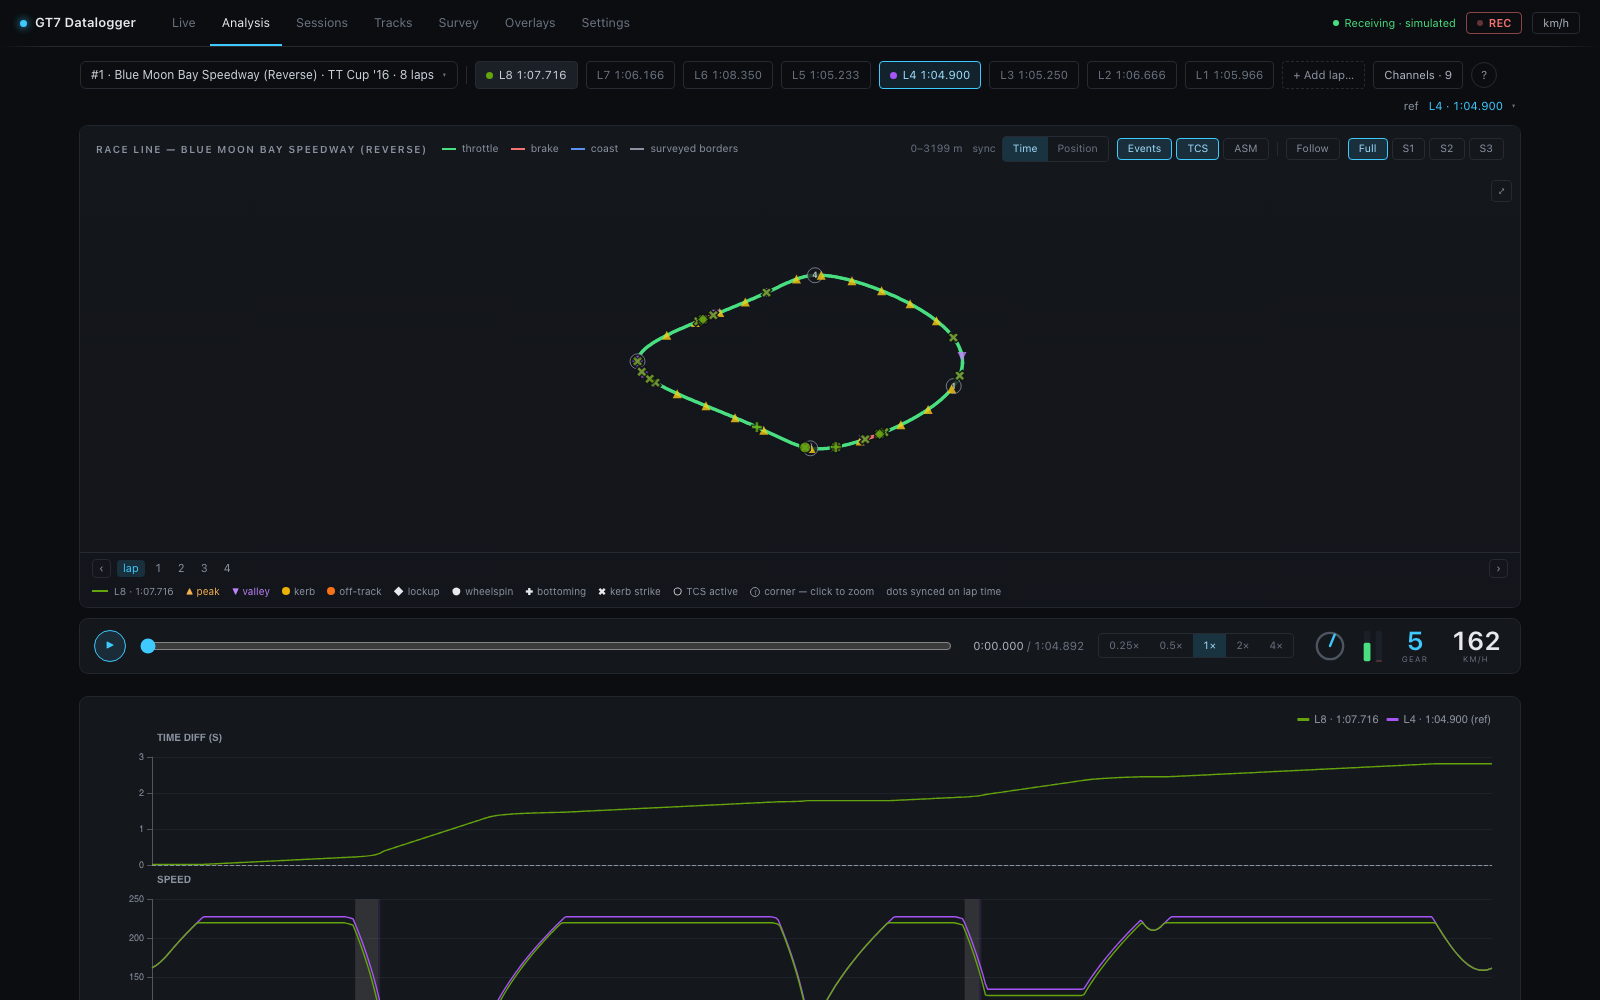
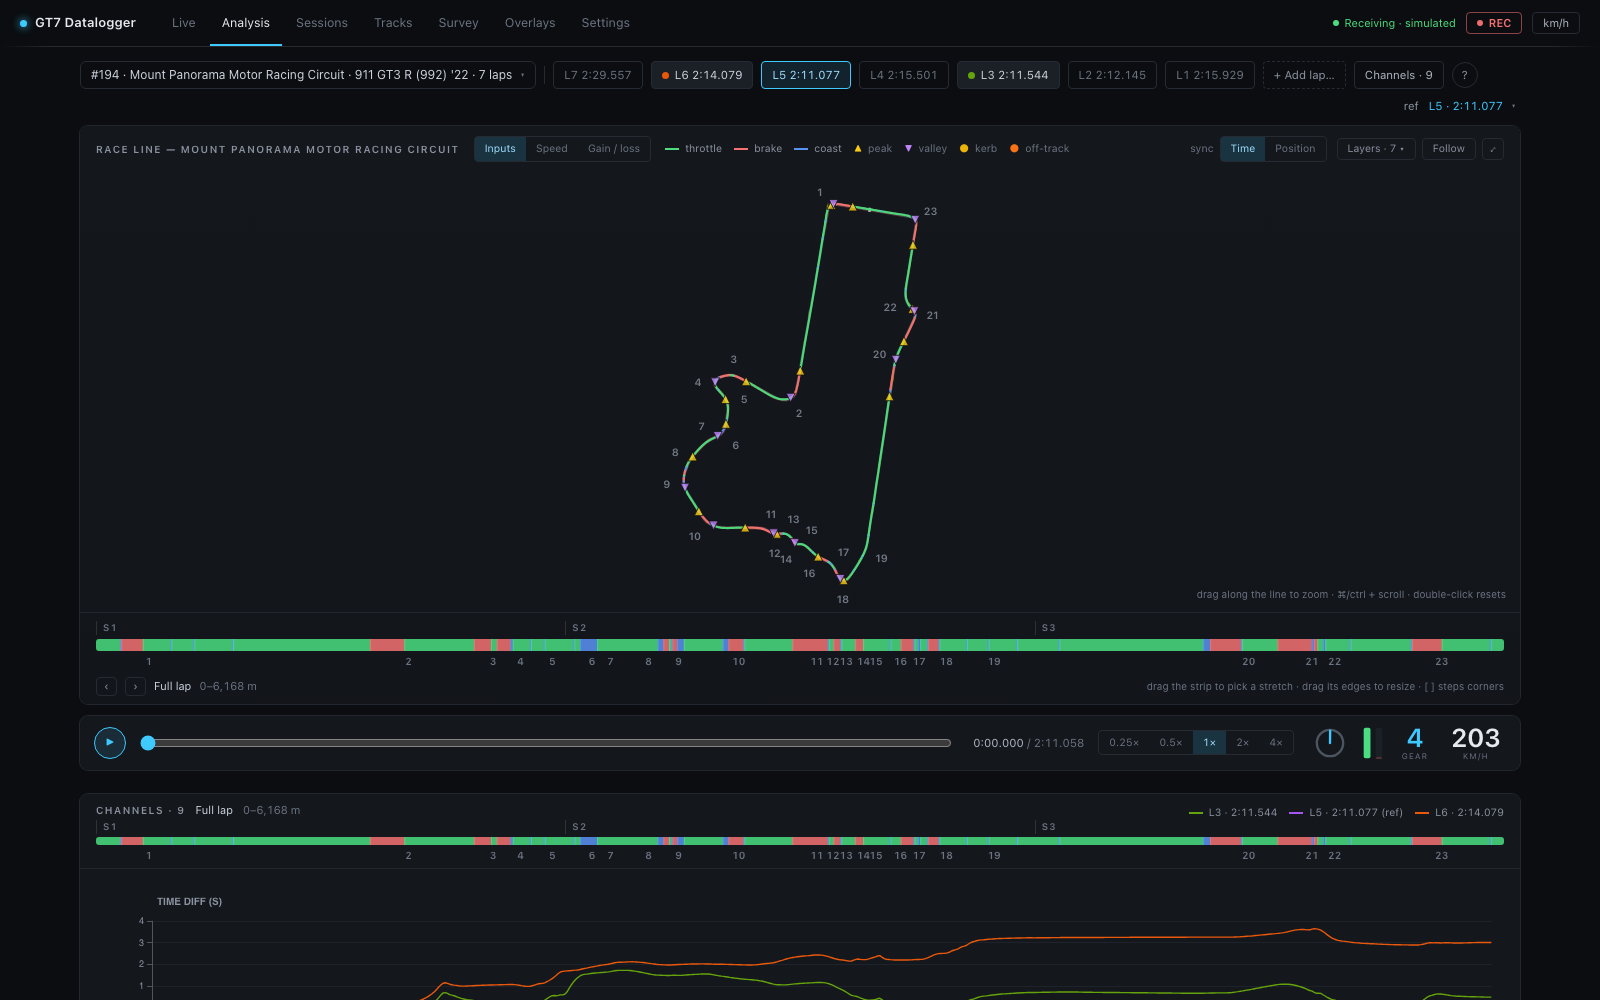
Docs and README: screenshots and feature lists for the Analysis rework
The Analysis screenshot still showed the view as it was before #137 and
#138: a dotted throttle/brake/coast line, a row of Events/TCS/ASM toggles
and S1–S3 buttons in the map header, no lap strip, no sector times. It is
re-shot on a recorded session at Mount Panorama (session 194, 911 GT3 R,
seven laps, 23 authored corners), because the simulated circuit has no
authored corners and no surveyed road, so it cannot show what the rework
added. Four more images go with it: the map zoomed to T2 under the
Gain / loss lens, with the locator inset, the apex badge, the brake-point
pins and the callout; and panel crops of the corner report card, the
stint trend and the sector times, placed under their sections of the
Analysis guide. The other six screenshots are from #131 and the views
they show have not changed since.

The README's feature list was several releases behind the app. It gains
the lens-coloured map and the Layers menu, corner zoom, the lap strip,
sector times, the corner report card's braking and balance columns, the
stint trend, lap playback, the traction circle and the post-lap notes;
Sessions gains Export analysis and the rules for which laps count (race
opening laps, pit out-laps, hand rulings) and which events keep a session
whole; and Tracks has a section of its own — auto-identification moved
there from Sessions, with the Needs-you list, survey mode, the corner and
sector editor and the shared repo. Three figures were wrong: the channel
[…]

diff --git a/README.md b/README.md
@@ -14,9 +14,10 @@ web dashboard for live driving, lap comparison, and session management.
 Maintained by [u/Rfc6878](https://www.reddit.com/user/Rfc6878/) on Reddit.
 
 Full feature parity with [snipem/gt7dashboard](https://github.com/snipem/gt7dashboard) —
-plus additional features like the analysis channel picker, Corner Detail widget, chassis
-event detection, track auto-identification, the overlay builder, and webhook
-notifications — rebuilt with a cleaner architecture and a modern UI.
+plus additional features like the lens-coloured race line map, sector times, the corner
+report card with braking points, chassis event detection, track auto-identification, the
+overlay builder, a voice race engineer, and webhook notifications — rebuilt with a cleaner
+architecture and a modern UI.
 
 **📖 Full documentation: [jbhoorasingh.github.io/gt7-datalogger](https://jbhoorasingh.github.io/gt7-datalogger/)** —
 per-feature guides, how every calculation works, and the API reference.
@@ -41,11 +42,13 @@ per-feature guides, how every calculation works, and the API reference.
 ### Analysis
 
 - **Multi-lap overlay comparison** against a selectable reference lap: time diff over
-  distance plus a **channel picker** — choose from ~20 telemetry channels grouped into
-  Driving, Tires & wheels, Chassis, and Engine (speed, throttle, brake, coasting, gear,
-  RPM, boost, yaw rate, per-wheel slip, per-corner tire temps, front/rear averages, the
-  tire-temp **F−R balance** curve, suspension travel, ride height, …). The panel set
-  persists and is encoded in the URL, so a shared link reproduces the exact view.
+  distance plus a **channel picker** — choose from 31 telemetry channels grouped into
+  Driving, Race, Engine, Tires & wheels, and Chassis (speed, throttle, brake, coasting,
+  gear, RPM, boost, steering, yaw rate, lateral / longitudinal / vertical g, body slip,
+  TCS cut and ABS release, race position, per-wheel slip, per-corner tire temps,
+  front/rear averages, the tire-temp **F−R balance** curve, suspension travel, ride
+  height, …). The panel set persists and is encoded in the URL, so a shared link
+  reproduces the exact view.
 - **Synced cursors** — hover one chart and the same distance point is highlighted
   everywhere: every panel, the race line map, and the Corner Detail widget.
 - **Corner Detail widget** — a top-down car with four corner cells that replays the
@@ -56,8 +59,34 @@ per-feature guides, how every calculation works, and the API reference.
   are detected at lap save, shaded onto the charts (on the panel that caused them), counted
   per lap in the Sessions table (`2L·1S·4B`), and summarized in the tuning panel. TCS/ASM
   activation shades the throttle/speed panels.
-- **Race line map** with throttle/brake/coast zones and speed peaks (▲) / valleys (▼),
-  drag-select **section zoom** synchronized across all charts and the map.
+- **Race line map with lenses** — the reference lap drawn as one line coloured by
+  **Inputs** (throttle / brake / coast), **Speed** bands, or **Gain / loss** against the
+  compared lap, over the surveyed road where the circuit has one. A **Layers** menu
+  switches everything else the map draws: corner numbers, the other laps with their apex
+  speeds and brake points, and markers for speed peaks (▲) / valleys (▼), kerbs, chassis
+  events, and TCS / ASM activity. **Zoom** to a corner by clicking its number (or `[` /
+  `]`), drag along the line, or ⌘/Ctrl + wheel; zoomed in, a locator inset, apex badges
+  with every lap's minimum speed, and a callout say what the compared lap did there.
+  Every chart follows the same window.
+- **Lap strip** — the lap unrolled under the map, coloured like the line, with the
+  track's sectors as **S1…Sn** buttons and the corner numbers at their apex; drag,
+  resize, or slide the zoom window on it. A compact copy stays pinned over the charts.
+- **Sector times** — every lap of the session split at the circuit's sectors (placed on
+  the Tracks page, or thirds of the lap when none are), best sector and best lap in
+  purple.
+- **Corner report card** — entry / minimum / exit speed and time lost or gained per
+  corner against the reference, with **braking columns** (brake Δ m, peak %, zone length)
+  and body-slip **balance**. Hover a row to pin both brake points on the map, click it to
+  zoom there; sort in track order or biggest loss first.
+- **Stint trend** — lap time and tyre temperatures lap over lap, split into stints at
+  pit stops, with each stint's drift as a figure (`+0.18 s/lap`).
+- **Lap playback** — play / pause, a scrub bar, and 0.25×–4× speed drive the synced
+  cursor: the dot runs round the race line and a strip of dashboard widgets replays the
+  driver's hands.
+- **Traction circle (g-g)** — lateral against longitudinal g, coloured by input zone,
+  with the other laps as faint dots.
+- **Race engineer post-lap notes** — the coaching findings as text, per lap, replayed
+  from the stored session whether or not voice was ever on.
 - **Gearing panel** — per-lap gear ratios with estimated speed at redline, tune top speed,
   and redline RPM.
 - Speed-deviation consistency chart across your best laps, relative fuel-map strategy
@@ -82,22 +111,42 @@ per-feature guides, how every calculation works, and the API reference.
   reference; tick laps to exclude, export or delete them in bulk.
 - Export/import laps as JSON, **CSV / MoTeC-compatible export** for MoTeC i2 or Excel,
   a whole session as a ZIP, delete laps or whole sessions, manual "log lap now", and a
-  record on/off toggle.
-- **Track auto-identification** — 78 GT7 configurations are recognised out of the box,
-  from signatures shipped with the app, so a fresh install tags sessions on the first
-  lap without you naming anything. Naming a circuit yourself always outranks a shipped
-  name, surveyed circuits identify themselves from their borders, and a lap driven the
-  wrong way round a layout is tagged as its reverse rather than as the layout itself.
+  record on/off toggle. **Export analysis** compiles a session into one labelled JSON
+  document — every lap measured per corner against the session's best (braking zone,
+  minimum speed, time lost, line against the reference) with no raw samples.
+- **Laps that count** — a race's opening lap is excluded from bests and consistency as
+  *race start*, a pit out-lap as partial, and any lap can be ruled in or out by hand with
+  a reason. Menus, pauses and pit stops never split or merge a session, and the session
+  being recorded can be deleted once recording is paused.
 - **Personal-bests board** — a **Bests** sub-tab in Sessions with each circuit's fastest counting lap
   per car across every session: time, gap to the circuit's outright best, class chip
   and filter, and one click into Analysis. Sessions can be excluded from bests —
   replays record other drivers' laps, and telemetry can't tell them from yours.
 
+### Tracks
+
+- **Track auto-identification** — 78 GT7 configurations are recognised out of the box,
+  from signatures shipped with the app, so a fresh install tags sessions on the first
+  lap without you naming anything. Naming a circuit yourself always outranks a shipped
+  name, surveyed circuits identify themselves from their borders, and a lap driven the
+  wrong way round a layout is tagged as its reverse rather than as the layout itself.
+- **Tracks view** — every circuit the app knows and what it has: a name, a survey, an
+  official layout, labelled corners, sectors. A **Needs you** list and a per-circuit
+  readiness checklist say what is missing and offer the fix.
+- **Survey mode** — drive the borders to capture the road; the compiled road is drawn
+  under the race line in Analysis, with unsurveyed stretches called out as gaps.
+- **Corner & sector editor** — name and number the corners, and place sector boundaries
+  by clicking the map or from a lap's split times as a race screen showed them. Both
+  travel with the circuit's bundle through export, import and sync.
+- **Shared track repo** — a fresh installation pulls every shared circuit on its first
+  start; **Import ▾ → Pull from shared** re-pulls on demand, applying the repo's
+  corrections, and the sync client pushes your own surveys back.
+
 ### Overlays & streaming
 
-- **Drag-and-drop overlay builder** (its own **Overlays** tab) with a live canvas: place 15 widgets
-  (gear, speed, RPM, inputs, lap times, big delta, race position, tires, fuel, fuel
-  strategy, in-game clock, engine temps, driver aids, boost, race alerts) freely on a
+- **Drag-and-drop overlay builder** (its own **Overlays** tab) with a live canvas: place 16 widgets
+  (gear, speed, RPM, inputs, steering wheel, lap times, big delta, race position, tires,
+  fuel, fuel strategy, in-game clock, engine temps, driver aids, boost, race alerts) freely on a
   snapping grid, size each from 1×1 to 4×4 cells, and pick a **visual style per widget**
   — digits, bar, arc gauge, or shift-light LED strip for the same metric.
 - **Server-saved named layouts** with short stable URLs (`/overlay?layout=race-strip`):
@@ -115,10 +164,12 @@ per-feature guides, how every calculation works, and the API reference.
 
 - **Robust capture** — Salsa20 decryption, heartbeat keep-alive, console auto-discovery via
   UDP broadcast, automatic reconnect, and a visible connection status indicator.
-- **Rich per-lap recording** — 60 Hz sample series for ~28 channels including per-wheel
-  slip, per-corner tire temps, suspension travel, and a driver-aids bitmask, plus per-lap
-  aggregates (aid usage %, engine health, gearing metadata).
-- **Sessions auto-split** on car change or race restart, so data never mixes.
+- **Rich per-lap recording** — 60 Hz sample series for 38 columns including per-wheel
+  slip, per-corner tire temps, suspension travel, elevation, surface, steering, g-forces,
+  body slip, and a driver-aids bitmask, plus per-lap aggregates (aid usage %, engine
+  health, gearing metadata).
+- **Sessions auto-split** on car change or race restart, so data never mixes — while
+  menus, pauses and pit stops keep the session going.
 - **Replay capture** — GT7 streams replays exactly like driving, so race replays record
   their laps, and a single-lap leaderboard replay (which ends *at* the line, before a
   lap would normally commit) is salvaged whenever GT7's own reported lap time matches
@@ -470,10 +521,15 @@ newer channels are simply absent and the charts skip them.
 
 ![Live view](docs/screenshots/live.png)
 
-**Analysis view** — channel picker, synced cursors, event bands, race line map,
-Corner Detail widget, and the gearing panel:
+**Analysis view** — the lens-coloured race line map with its Layers menu, the lap
+strip with sectors and corner numbers, lap playback, and the channel stack beneath:
 
 ![Analysis view](docs/screenshots/analysis.png)
+
+**Zoomed to a corner** — the Gain / loss lens, the locator inset, apex badges with each
+lap's minimum speed, brake-point pins, and the callout for the compared lap:
+
+![Analysis view zoomed to a corner](docs/screenshots/analysis-corner.png)
 
 **Sessions view** — the session list, stat strip, lap-time chart and per-lap metrics
 with event counts (`2L·1S·4B` = lockups · wheelspins · bottoming):
@@ -499,4 +555,4 @@ what is surveyed, what is named, and what the official layout is:
 
 ![Tracks view](docs/screenshots/tracks.png)
 
-*Screenshots were captured against the built-in simulated telemetry source on a scratch database, with the circuits pulled from the shared track repo.*
+*Screenshots were captured against the built-in simulated telemetry source on a scratch database, with the circuits pulled from the shared track repo; the Analysis screenshots show recorded laps at Mount Panorama.*

diff --git a/docs/index.md b/docs/index.md
@@ -12,9 +12,9 @@ GT7 streams encrypted telemetry over UDP at 60 Hz while you drive. GT7 Datalogge
 
 1. **Captures** that stream — Salsa20 decryption, heartbeat keep-alive, auto-discovery,
    automatic reconnect.
-2. **Records** every lap — ~28 channels at 60 Hz including per-wheel slip, per-corner
-   tire temps, and suspension travel, plus per-lap aggregates and detected chassis
-   events (lockups, wheelspin, bottoming, kerb strikes).
+2. **Records** every lap — 38 columns at 60 Hz including per-wheel slip, per-corner
+   tire temps, suspension travel, g-forces and body slip, plus per-lap aggregates and
+   detected chassis events (lockups, wheelspin, bottoming, kerb strikes).
 3. **Serves** a web dashboard — live race readouts, multi-lap analysis with synced
    cursors and a race line map, session history, and a fully customizable OBS/phone
    overlay builder.
@@ -44,8 +44,10 @@ Settings**, plus two full-screen pages for a second screen: `/dash` and `/engine
   and a clickable rail of this session's laps.
 
 - **[Analysis view](guide/analysis-view.md)** — overlay multiple laps against a
-  reference: ~20 telemetry channels, time-diff over distance, synced cursors, race line
-  map, corner detail widget, detected events, and a gearing panel.
+  reference: 31 telemetry channels, time-diff over distance, synced cursors, a
+  lens-coloured race line map that zooms to a corner, a lap strip with sectors, sector
+  times, a corner report card with braking points, stint trend, lap playback, and
+  detected events.
 
 - **[Sessions view](guide/sessions-view.md)** — browse history session by session:
   stats, a lap-time chart and per-lap metrics; export laps as JSON or CSV/MoTeC,
@@ -64,6 +66,11 @@ Settings**, plus two full-screen pages for a second screen: `/dash` and `/engine
 </div>
 
 ## Screenshots
+
+**Analysis view zoomed to a corner** — the Gain / loss lens, the locator inset, apex
+badges with each lap's minimum speed, brake-point pins, and the callout:
+
+![Analysis view zoomed to a corner](screenshots/analysis-corner.png)
 
 **Live view** — race readouts, driver-aid pills, strategy, and the clickable laps rail:
 
@@ -86,7 +93,7 @@ with event counts (`2L·1S·4B` = lockups · wheelspins · bottoming):
 
 ![Tracks view](screenshots/tracks.png)
 
-*Screenshots were captured against the built-in simulated telemetry source on a scratch database, with the circuits pulled from the shared track repo.*
+*Screenshots were captured against the built-in simulated telemetry source on a scratch database, with the circuits pulled from the shared track repo; the Analysis screenshots show recorded laps at Mount Panorama.*
 
 ## How it works
 

diff --git a/docs/guide/analysis-view.md b/docs/guide/analysis-view.md
@@ -100,6 +100,8 @@ Details worth knowing:
 
 ## Corner report card
 
+![Corner report card — braking columns, speeds and time per corner against the reference](../screenshots/analysis-report.png)
+
 Below the charts, one row per corner: entry / minimum / exit speed and the time spent
 between the corner's entry and exit, for the focused lap with the reference's figures in
 small type beside it. The **Δ s** column is the time lost (red) or gained (green) through
@@ -151,6 +153,8 @@ negative figure, is the nose pushing wide. Recordings made before 0.7.0 have no 
 channel, and the columns are left out.
 
 ## Stint trend
+
+![Stint trend — lap time and tyre temperature lap over lap, with the stint's drift](../screenshots/analysis-stint.png)
 
 Every lap of the session on one chart: **lap time** as points against the left axis, the
 **tyre temperatures** as lines against the right one, lap number across. It is there to
@@ -224,6 +228,8 @@ default nine-panel stack. Laps recorded before a channel existed simply skip tha
     [Configuration](../getting-started/configuration.md).
 
 ## Sector times
+
+![Sector times — best sector and best lap in purple](../screenshots/analysis-sectors.png)
 
 Every lap of the session, split at the circuit's sectors, one row per lap in lap order.
 The best of each sector and the best lap time are purple, counting only laps that count
@@ -301,6 +307,8 @@ Dots and the Follow camera are placed at the exact cursor position, between the
 recorded 5 m steps, so the camera pans smoothly during playback.
 
 ### Zooming the map
+
+![The map zoomed to turn 2 with the Gain / loss lens: locator inset, apex badge, brake-point pins and the callout](../screenshots/analysis-corner.png)
 
 Everything shares one zoom window, so the map, the strip, the charts and the deviation
 chart always show the same stretch. On the map itself:

diff --git a/docs/reference/lap-file-format.md b/docs/reference/lap-file-format.md
@@ -42,9 +42,10 @@ version importing a file with it drops the column it does not know.
 
 The `samples` object holds the **full 60 Hz series** as parallel arrays, one per
 channel — see [Derived channels & metrics](../internals/derived-channels.md) for the
-complete column list with formulas and units (~28 columns: time, distance, speed,
+complete column list with formulas and units (38 columns: time, distance, speed,
 inputs, gear, RPM, boost, per-wheel slip, per-corner tire temps and suspension travel,
-world position, fuel, driver-aids bitmask, …). `t` and `dist` both start half a frame
+world position and elevation, fuel, driver-aids bitmask, surface, and the optional
+steering, g-force, filtered-input, race-position and body-slip columns). `t` and `dist` both start half a frame
 gap past the line ([why](../internals/lap-detection.md#where-a-lap-begins)); files
 written by earlier versions start `t` at exactly 0 and are converted when imported (and
 when exported again).

diff --git a/docs/internals/event-detection.md b/docs/internals/event-detection.md
@@ -65,7 +65,7 @@ compression:
   stretches shade the Speed panel, using the same mechanism.
 - **Race line map** — a marker in the lap's color where each event began, and rings on
   the samples where TCS or ASM was active; see
-  [Events and driver aids](../guide/analysis-view.md#events-and-driver-aids).
+  [Layers](../guide/analysis-view.md#layers).
 - **Sessions table** — the compact per-lap code `2L·1S·3B·1K` = 2 lockups, 1 wheelspin,
   3 bottomings, 1 kerb strike.
 - **Corner Detail widget** — live `LOCK` / `SPIN` badges are re-derived per corner as
